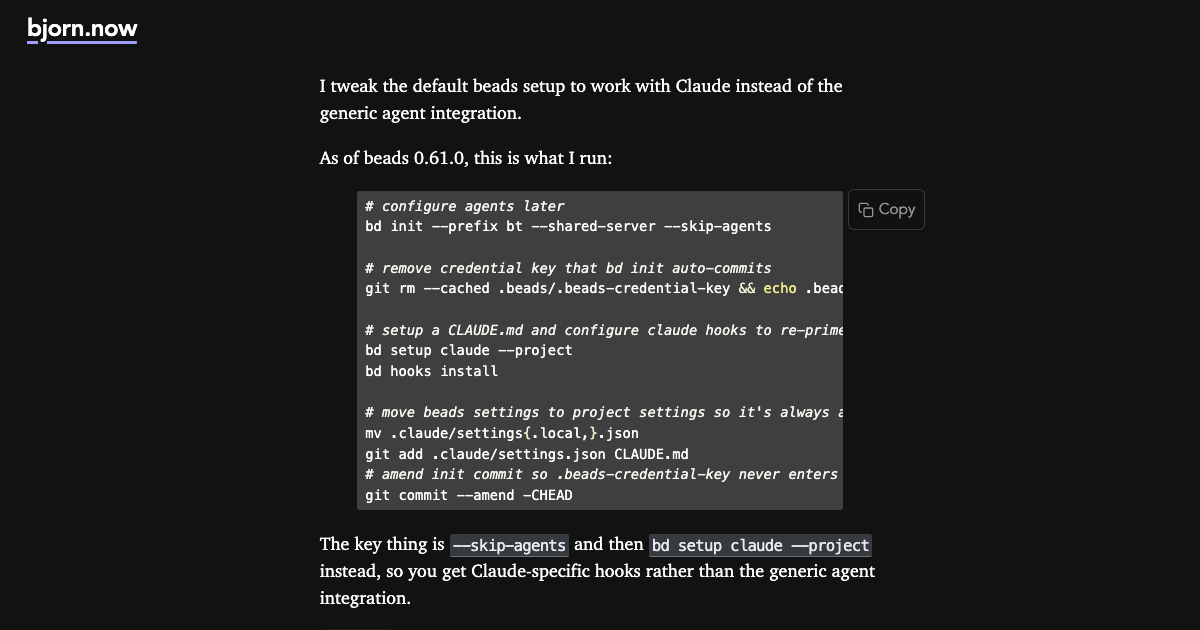
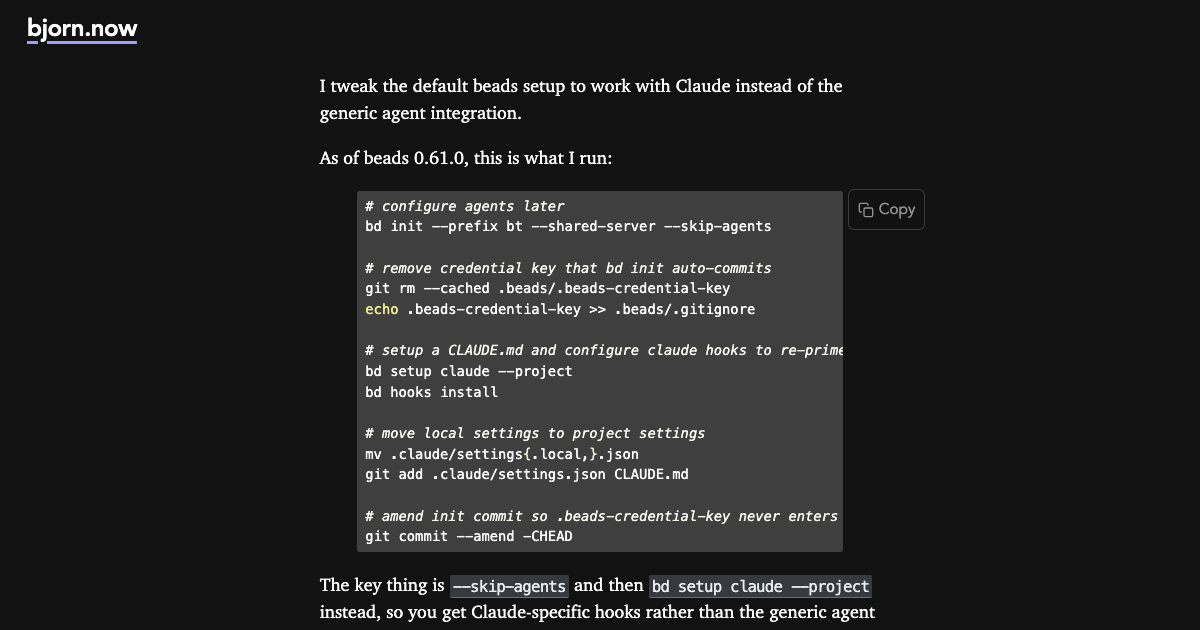
Deverbose

Changed region(s): [[0.2467, 0.4524, 0.74, 0.9952]]

diff --git a/content/til/2026-03-20-how-i-configure-beads-for-new-projects.md b/content/til/2026-03-20-how-i-configure-beads-for-new-projects.md
@@ -18,15 +18,17 @@ As of beads 0.61.0, this is what I run:
 bd init --prefix bt --shared-server --skip-agents
 
 # remove credential key that bd init auto-commits
-git rm --cached .beads/.beads-credential-key && echo .beads-credential-key >> .beads/.gitignore
+git rm --cached .beads/.beads-credential-key
+echo .beads-credential-key >> .beads/.gitignore
 
 # setup a CLAUDE.md and configure claude hooks to re-prime beads
 bd setup claude --project
 bd hooks install
 
-# move beads settings to project settings so it's always available
+# move local settings to project settings
 mv .claude/settings{.local,}.json
 git add .claude/settings.json CLAUDE.md
+
 # amend init commit so .beads-credential-key never enters git
 git commit --amend -CHEAD
 ```

diff --git a/content/til/2026-03-20-configure-beads-dolt-to-share-via-git.md b/content/til/2026-03-20-configure-beads-dolt-to-share-via-git.md
@@ -18,7 +18,7 @@ After `bd init`, your dolt data only exists locally. You can check with `bd dolt
 Point it at your existing git repo:
 
 ```shell
-bd dolt remote add origin git+ssh://git@github.com/youruser/yourrepo.git
+bd dolt remote add origin git+ssh://git@github.com/you/repo.git
 ```
 
 Then push and verify:
@@ -35,7 +35,7 @@ To avoid doing this manually on every machine, add the remote to `.beads/config.
 
 ```yaml
 sync:
-  git-remote: git+ssh://git@github.com/youruser/yourrepo.git
+  git-remote: git+ssh://git@github.com/you/repo.git
 ```
 
 Anyone cloning the repo can then run `bd bootstrap` and `bd dolt push / pull` will just work.
